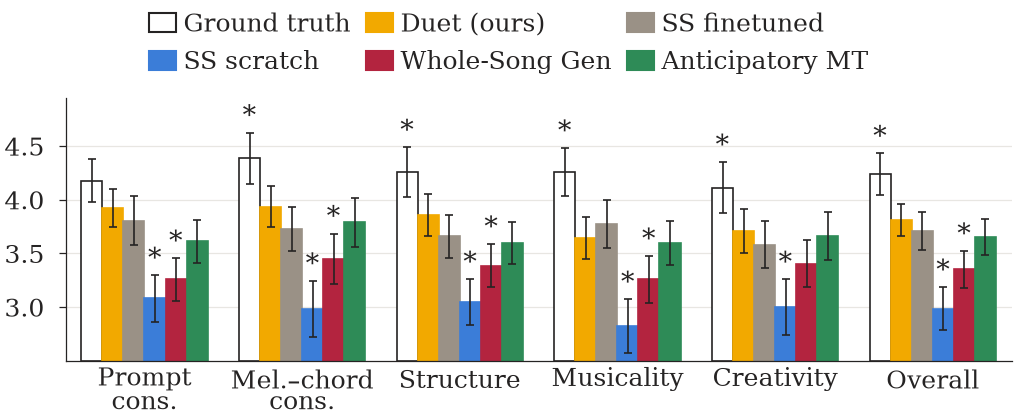
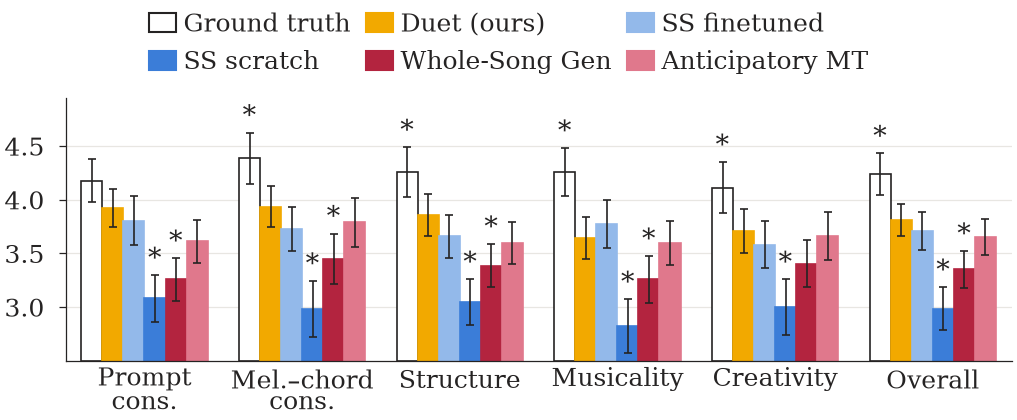
One palette of family shades across the objective sheets and the listening test
plot_e1_box.SYSTEM_COLOR now gives every system its own shade of its
family colour: Duet gold with a darker (dense) and a lighter (w/o draft
tokens) shade, single-stream scratch slate and finetuned a lighter
slate, Whole-Song Gen maroon and AMT a lighter maroon. The subjective
plots (bars, compact, spider) read the same table through
plot_subjective_compact.colour, so AMT's green is gone.

plot_e1_box --names {long,short,none} (NAMES= in the wrapper): short
writes two-line codes horizontally under the columns; none writes no
names on the axis and lists every system by its swatch in the legend,
for the one-column 2x2 sheet (ORIENT=v NCOLS=2 NAMES=none).

Claude-Session: https://claude.ai/code/session_012w7PFbJyWP4meVE3CJpfno

diff --git a/midi_yinyang/plot_e1_box.py b/midi_yinyang/plot_e1_box.py
@@ -93,14 +93,14 @@ GROUPS = [
         # the dense arm: one FFN of width 6144 in place of the routed
         # pool. The expert-adapter variants (A3L16E16, A3L16E16_nocross)
         # are scored in the CSVs but left off every figure and table.
-        ('D1',        'Duet\nw/o MoE (dense)',   'Duet dense'),
-        ('A1',        'Duet\nw/o draft tokens',  'Duet w/o DT'),
+        ('D1',        'Duet\nw/o MoE (dense)',   'Duet\ndense'),
+        ('A1',        'Duet\nw/o draft tokens',  'Duet\nw/o DT'),
     ]),
     # The cascade arms (P-mc, P-cm) left the figures 2026-09-17, by
     # request; they are still scored and sit in the CSVs.
     ('Internal baselines', True, [
-        ('S-scratch', 'Single-stream\n(scratch)',   'SS–scr'),
-        ('S1',        'Single-stream\n(finetuned)', 'SS–ft'),
+        ('S-scratch', 'Single-stream\n(scratch)',   'SS\nscr.'),
+        ('S1',        'Single-stream\n(finetuned)', 'SS\nft.'),
     ]),
     ('External baselines', True, [
         # WSfv4: the whole-song baseline with its chord track re-voiced
@@ -138,7 +138,20 @@ PALETTE = {
     'slate':  '#3b7dd8',    # was #70798c
     'grey':   '#9a9186',    # was #a39c8f
 }
-SYSTEM_COLOR = {}
+# Per-system shades within the family hue (2026-09-24, by request): the
+# flagship keeps the family colour, its ablations a darker and a lighter
+# shade of it, the second member of each baseline family a lighter shade.
+# With --names none the legend names every system by its swatch and the
+# x axis carries no names at all.
+SYSTEM_COLOR = {
+    'A3ctcaT':   PALETTE['gold'],
+    'D1':        '#b87d00',        # darker gold
+    'A1':        '#f9cf6b',        # lighter gold
+    'S-scratch': PALETTE['slate'],
+    'S1':        '#93b9ea',        # lighter slate
+    'WSfv4':     PALETTE['maroon'],
+    'AMT':       '#e0788c',        # lighter maroon
+}
 FAMILY_COLOR = {
     'Ours':                PALETTE['gold'],
     'Internal baselines':  PALETTE['slate'],
@@ -877,6 +890,14 @@ def main():
                         'unless a value above 5 is given')
     p.add_argument('--panel-height', type=float, default=1.35, help='inches')
     p.add_argument('--title', default='')
+    p.add_argument('--names', choices=['long', 'short', 'none'], default='long',
+                   help='--orient v only: long (default) writes the full '
+                        'names under the bottom panels, vertical when there '
+                        'is more than one column; short writes the two-line '
+                        'short codes horizontally, which keeps the figure '
+                        'one column wide without a name column; none writes '
+                        'no names on the axis and lists every system by its '
+                        'colour swatch in the legend instead')
     p.add_argument('--orient', choices=['h', 'v'], default='h',
                    help="h (default): wide layout, four metrics side by "
                         "side across both columns, systems down the "
@@ -1066,10 +1087,15 @@ def main():
     nrows = math.ceil(n / ncols)
     # Below the panels: vertical system names (~1.5 in at 7 pt for the
     # longest) and the legend.
+    short_names = args.names == 'short'
+    # below the panels: vertical full names need ~1.5 in; two-line short
+    # codes ~0.35 in; none leaves the legend alone, which then also lists
+    # the systems (~0.85 in)
+    extra = (0.95 if args.names == 'none' else
+             1.0 if short_names else (2.25 if ncols > 1 else 1.6))
     fig, axgrid = plt.subplots(
         nrows, ncols, squeeze=False,
-        figsize=(args.width, args.panel_height * nrows
-                 + (2.25 if ncols > 1 else 1.6)))
+        figsize=(args.width, args.panel_height * nrows + extra))
     fig.patch.set_facecolor(SURFACE)
 
     # ~10 characters per inch at 7.5pt; 0 means "use the y-axis label".
@@ -1113,7 +1139,18 @@ def main():
     # instead of width nine times, and keeps the FULL names: a key of
     # invented abbreviations is a second thing for a reader to hold.
     compact = ncols > 1
-    if compact:
+    if args.names == 'none':
+        pass                                  # the legend names the systems
+    elif short_names:
+        # --names short (2026-09-24, by request): the two-line short
+        # codes horizontal under each column, so the panels keep the
+        # full column width and the figure loses the name column
+        for bottom in bottoms:
+            bottom.set_xticklabels([sh for _lg, sh in labels],
+                                   fontsize=FS_TICK - (1.5 if ncols > 1 else 0.5),
+                                   color=INK, linespacing=0.95)
+            bottom.tick_params(axis='x', pad=1.5)
+    elif compact:
         shown = [lg.replace('\n', ' ') for lg, _sh in labels]
         for bottom in bottoms:
             bottom.set_xticklabels(shown, fontsize=FS_TICK, color=INK,
@@ -1188,7 +1225,14 @@ def main():
                    label='mean; whiskers 1.5 IQR, outliers omitted'),
         ]
     labels_ = [h.get_label() for h in handles]
-    if compact:
+    if args.names == 'none':
+        # one swatch per system, in its own shade, full name on one line
+        for s, d, _sh, f, _r in order:
+            c = color_of(s, f)
+            handles.append(Rectangle((0, 0), 1, 1, facecolor=lighten(c),
+                                     edgecolor=c, lw=0.8))
+            labels_.append(d.replace('\n', ' '))
+    elif compact:
         # one legend entry per family. If members carry their own
         # colours (SYSTEM_COLOR) the swatch is those side by side;
         # otherwise a single swatch in the family colour.

diff --git a/midi_yinyang/figures/plot_subjective_compact.py b/midi_yinyang/figures/plot_subjective_compact.py
@@ -27,7 +27,13 @@ import matplotlib.pyplot as plt
 _ROOT = os.path.dirname(os.path.dirname(os.path.abspath(__file__)))
 sys.path.insert(0, _ROOT)
 from subjective_anova import AXES, SYSTEMS, load, matrix, holm  # noqa: E402
-from plot_e1_box import FAMILY_COLOR, INK, GRID, SURFACE, FS_TICK, FS_LABEL, FS_LEGEND  # noqa: E402
+from plot_e1_box import FAMILY_COLOR, SYSTEM_COLOR, INK, GRID, SURFACE, FS_TICK, FS_LABEL, FS_LEGEND  # noqa: E402
+
+# the listening-test ids of the systems in the objective sheets, so both
+# figure families share one palette (plot_e1_box.SYSTEM_COLOR: the
+# flagship in the family colour, the other members in shades of it)
+E1_ID = {'Duet (alt commit)': 'A3ctcaT', 'S-finetune': 'S1', 'S-scratch': 'S-scratch',
+         'Whole-song': 'WSfv4', 'AMT': 'AMT'}
 
 # row order of the paper's figure (2026-09-24): the two consistency axes
 # first, then structure, musicality, creativity, overall
@@ -45,7 +51,9 @@ SYS = {'Duet (alt commit)': ('Duet (ours)', 'Ours', 'o'),
 
 def colour(s):
     fam = SYS[s][1]
-    return INK if fam == 'GT' else FAMILY_COLOR[fam]
+    if fam == 'GT':
+        return INK
+    return SYSTEM_COLOR.get(E1_ID.get(s, ''), FAMILY_COLOR[fam])
 
 
 def within_ci(Y, alpha=0.05):

diff --git a/midi_yinyang/figures/plot_subjective_spider.py b/midi_yinyang/figures/plot_subjective_spider.py
@@ -31,11 +31,11 @@ from subjective_anova import SYSTEMS, load, matrix, holm  # noqa: E402
 from plot_e1_box import INK, GRID, SURFACE, FS_TICK, FS_LABEL, FS_LEGEND  # noqa: E402
 from plot_subjective_compact import SYS, colour, within_ci, ROW_AXES  # noqa: E402
 
-# one colour per system (2026-09-24): with no markers the two external
-# systems could not share the family maroon. Ours, the two single-stream
-# models and ground truth keep the family palette; Whole-Song Gen keeps
-# the external maroon and AMT takes a green.
-SYSTEM_COLOR = {'AMT': '#2e8b57', 'Whole-song': '#b3243f'}
+# one colour per system: the shared palette of plot_e1_box.SYSTEM_COLOR,
+# reached through plot_subjective_compact.colour (2026-09-24: the second
+# member of each family is a lighter shade of the family colour, so the
+# earlier green for AMT is gone). Overrides, if any, go here.
+SYSTEM_COLOR = {}
 
 AXIS_LABEL = {'consistency': 'Prompt\ncons.', 'fit': 'Mel.–chord\ncons.',
               'structure': 'Structure', 'musicality': 'Musicality',
